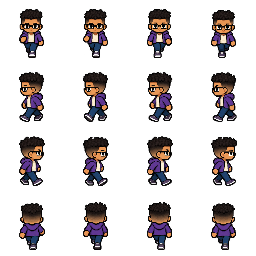
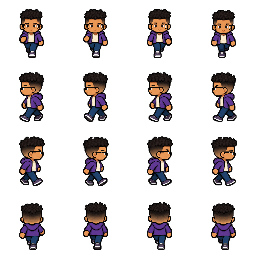
Remocao dos oculos dos sprites de Marcos e Luis Martins

diff --git a/scratch/remove_glasses.py b/scratch/remove_glasses.py
@@ -1,0 +1,168 @@
+import os
+from PIL import Image
+import numpy as np
+
+BASE = r"c:\Users\Usuario\misterio_de_varginha-jogofeiratecnica-2026-prot-tipo_principal-2026-09-22-10-19-30"
+RESOURCES_ALLIES = os.path.join(BASE, r"Assets\Resources\Varginha\Allies")
+ARTSOURCE_ALLIES = os.path.join(BASE, r"Assets\ArtSource\Allies")
+
+def remove_glasses_marcos():
+    path = os.path.join(RESOURCES_ALLIES, "Marcos.png")
+    im = Image.open(path)
+    arr = np.array(im)
+    
+    SKIN = np.array([232, 151, 85, 255], dtype=np.uint8)
+    LID = np.array([160, 95, 55, 255], dtype=np.uint8)
+    SCLERA = np.array([240, 235, 230, 255], dtype=np.uint8)
+    PUPIL = np.array([35, 25, 20, 255], dtype=np.uint8)
+    
+    # 1. Direction 0 (Front) - all 4 walk frames
+    for f in range(4):
+        cell = arr[0:64, f*64:(f+1)*64]
+        bob = 1 if f == 3 else 0
+        y_top = 24 + bob
+        
+        # Upper eyelid line
+        cell[y_top, 25] = SKIN
+        cell[y_top, 26:29] = LID
+        cell[y_top, 29:33] = SKIN
+        cell[y_top, 33:36] = LID
+        cell[y_top, 36] = SKIN
+        
+        # Eyes lines
+        for y in [y_top + 1, y_top + 2]:
+            cell[y, 25] = SKIN
+            cell[y, 26] = SCLERA
+            cell[y, 27:29] = PUPIL
+            cell[y, 29:33] = SKIN
+            cell[y, 33:35] = PUPIL
+            cell[y, 35] = SCLERA
+            cell[y, 36] = SKIN
+            
+        # Lower eye / cheeks (remove glasses lower rim and reflections)
+        cell[y_top + 3, 25:37] = SKIN
+        cell[y_top + 3, 27] = LID
+        cell[y_top + 3, 34] = LID
+        cell[y_top + 4, 25:37] = SKIN
+        
+    # 2. Direction 1 (Left profile) - remove glasses temple/rim
+    for f in range(4):
+        cell = arr[64:128, f*64:(f+1)*64]
+        bob = 0
+        y_top = 24 + bob
+        for y in [y_top, y_top + 1]:
+            cell[y, 22] = PUPIL
+            cell[y, 23] = SCLERA
+            cell[y, 24:28] = SKIN
+        cell[y_top + 2, 22:28] = SKIN
+        cell[y_top + 3, 22:28] = SKIN
+        
+    # 3. Direction 2 (Right profile) - remove glasses temple/rim
+    for f in range(4):
+        cell = arr[128:192, f*64:(f+1)*64]
+        bob = 1 if f in [1, 3] else 0
+        y_top = 24 + bob
+        for y in [y_top, y_top + 1]:
+            cell[y, 36:40] = SKIN
+            cell[y, 40] = SCLERA
+            cell[y, 41] = PUPIL
+        cell[y_top + 2, 36:42] = SKIN
+        cell[y_top + 3, 36:42] = SKIN
+        
+    out = Image.fromarray(arr)
+    out.save(path)
+    print("Marcos.png in Resources updated without glasses.")
+    sync_artsource("Marcos.png", out)
+
+def remove_glasses_luis_martins():
+    path = os.path.join(RESOURCES_ALLIES, "LuisMartins.png")
+    im = Image.open(path)
+    arr = np.array(im)
+    
+    SKIN = np.array([251, 175, 110, 255], dtype=np.uint8)
+    LID = np.array([200, 130, 80, 255], dtype=np.uint8)
+    SCLERA = np.array([245, 240, 238, 255], dtype=np.uint8)
+    PUPIL = np.array([35, 20, 15, 255], dtype=np.uint8)
+    
+    # 1. Direction 0 (Front) - all 4 walk frames
+    for f in range(4):
+        cell = arr[0:64, f*64:(f+1)*64]
+        bob = 0
+        y_top = 24 + bob
+        
+        # Upper eyelid line
+        cell[y_top, 25] = SKIN
+        cell[y_top, 26:29] = LID
+        cell[y_top, 29:33] = SKIN
+        cell[y_top, 33:36] = LID
+        cell[y_top, 36] = SKIN
+        
+        # Eyes lines
+        for y in [y_top + 1, y_top + 2]:
+            cell[y, 25] = SKIN
+            cell[y, 26] = SCLERA
+            cell[y, 27:29] = PUPIL
+            cell[y, 29:33] = SKIN
+            cell[y, 33:35] = PUPIL
+            cell[y, 35] = SCLERA
+            cell[y, 36] = SKIN
+            
+        # Lower eye / cheeks (remove glasses lower rim and reflections)
+        cell[y_top + 3, 25:37] = SKIN
+        cell[y_top + 3, 27] = LID
+        cell[y_top + 3, 34] = LID
+        cell[y_top + 4, 25:37] = SKIN
+        
+    # 2. Direction 1 (Left profile) - remove glasses temple/rim
+    for f in range(4):
+        cell = arr[64:128, f*64:(f+1)*64]
+        bob = 1 if f in [1, 3] else 0
+        y_top = 24 + bob
+        for y in [y_top, y_top + 1]:
+            cell[y, 22] = PUPIL
+            cell[y, 23] = SCLERA
+            cell[y, 24:28] = SKIN
+        cell[y_top + 2, 22:28] = SKIN
+        cell[y_top + 3, 22:28] = SKIN
+        
+    # 3. Direction 2 (Right profile) - remove glasses temple/rim
+    for f in range(4):
+        cell = arr[128:192, f*64:(f+1)*64]
+        bob = 0
+        y_top = 24 + bob
+        for y in [y_top, y_top + 1]:
+            cell[y, 36:40] = SKIN
+            cell[y, 40] = SCLERA
+            cell[y, 41] = PUPIL
+        cell[y_top + 2, 36:42] = SKIN
+        cell[y_top + 3, 36:42] = SKIN
+        
+    out = Image.fromarray(arr)
+    out.save(path)
+    print("LuisMartins.png in Resources updated without glasses.")
+    sync_artsource("LuisMartins.png", out)
+
+def sync_artsource(filename, res_im):
+    art_path = os.path.join(ARTSOURCE_ALLIES, filename)
+    if not os.path.exists(art_path):
+        return
+    art_im = Image.new('RGBA', (1254, 1254))
+    for row in range(4):
+        for col in range(4):
+            cell_64 = res_im.crop((col*64, row*64, (col+1)*64, (row+1)*64))
+            bbox = cell_64.getbbox()
+            if not bbox: continue
+            cropped = cell_64.crop(bbox)
+            scale = 260 / cropped.height
+            new_w = round(cropped.width * scale)
+            new_h = round(cropped.height * scale)
+            scaled = cropped.resize((new_w, new_h), Image.Resampling.NEAREST)
+            cell_x = col * 1254 // 4 + (313 - new_w) // 2
+            cell_y = row * 1254 // 4 + (313 - new_h) // 2
+            art_im.alpha_composite(scaled, (cell_x, cell_y))
+    art_im.save(art_path)
+    print(f"{filename} in ArtSource updated.")
+
+if __name__ == "__main__":
+    remove_glasses_marcos()
+    remove_glasses_luis_martins()

diff --git a/Docs/AlunosDirecaoVisual.md b/Docs/AlunosDirecaoVisual.md
@@ -20,7 +20,7 @@ Fabio, young male student with warm light skin, brown hair parted cleanly DOWN T
 
 ## Marcos
 
-Marcos, young male student with warm medium brown skin, a clearly visible high FADE HAIRCUT, closely SHAVED SIDES and taller textured curly dark top. Thin black rectangular glasses. Purple hoodie over cream T-shirt, dark jeans, violet gray trainers. Sides of head expose skin with a short dark fade gradient, NOT a round mop of curls covering ears.
+Marcos, young male student with warm medium brown skin, a clearly visible high FADE HAIRCUT, closely SHAVED SIDES and taller textured curly dark top. NO glasses, clear expressive dark eyes. Purple hoodie over cream T-shirt, dark jeans, violet gray trainers. Sides of head expose skin with a short dark fade gradient, NOT a round mop of curls covering ears.
 
 ## AnnaSabia
 
@@ -36,7 +36,7 @@ Luis Messias, young adult male student, warm medium tan skin, short dark hair, n
 
 ## LuisMartins
 
-Luis Martins, young male student, warm fair skin, STRAIGHT BROWN hair smoothly side-parted, no curls, thin dark rectangular glasses clear lenses. RED HOODED SWEATSHIRT with a front kangaroo pocket, hood down and drawstrings, dark blue jeans, dark gray sneakers. Strong clean red clothing identity. No gray jacket.
+Luis Martins, young male student, warm fair skin, STRAIGHT BROWN hair smoothly side-parted, no curls, NO glasses, clear visible eyes. RED HOODED SWEATSHIRT with a front kangaroo pocket, hood down and drawstrings, dark blue jeans, dark gray sneakers. Strong clean red clothing identity. No gray jacket.
 
 ## Geração
 
